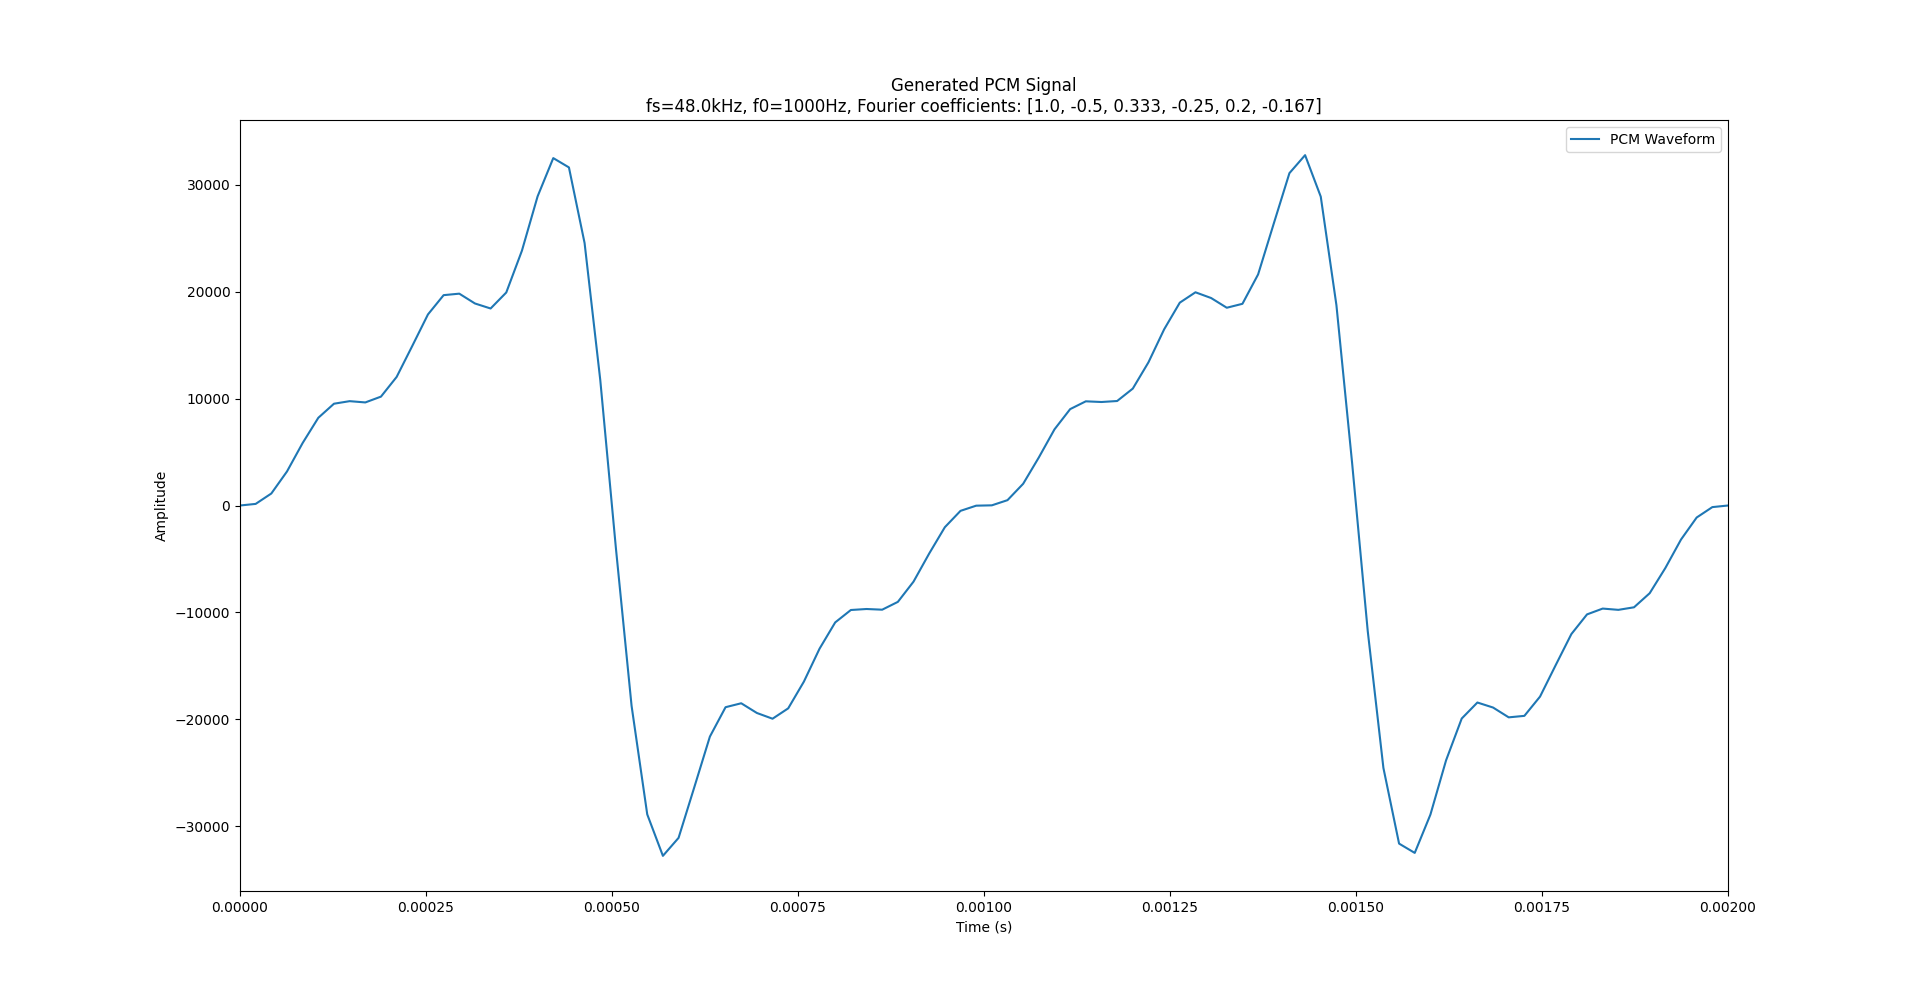
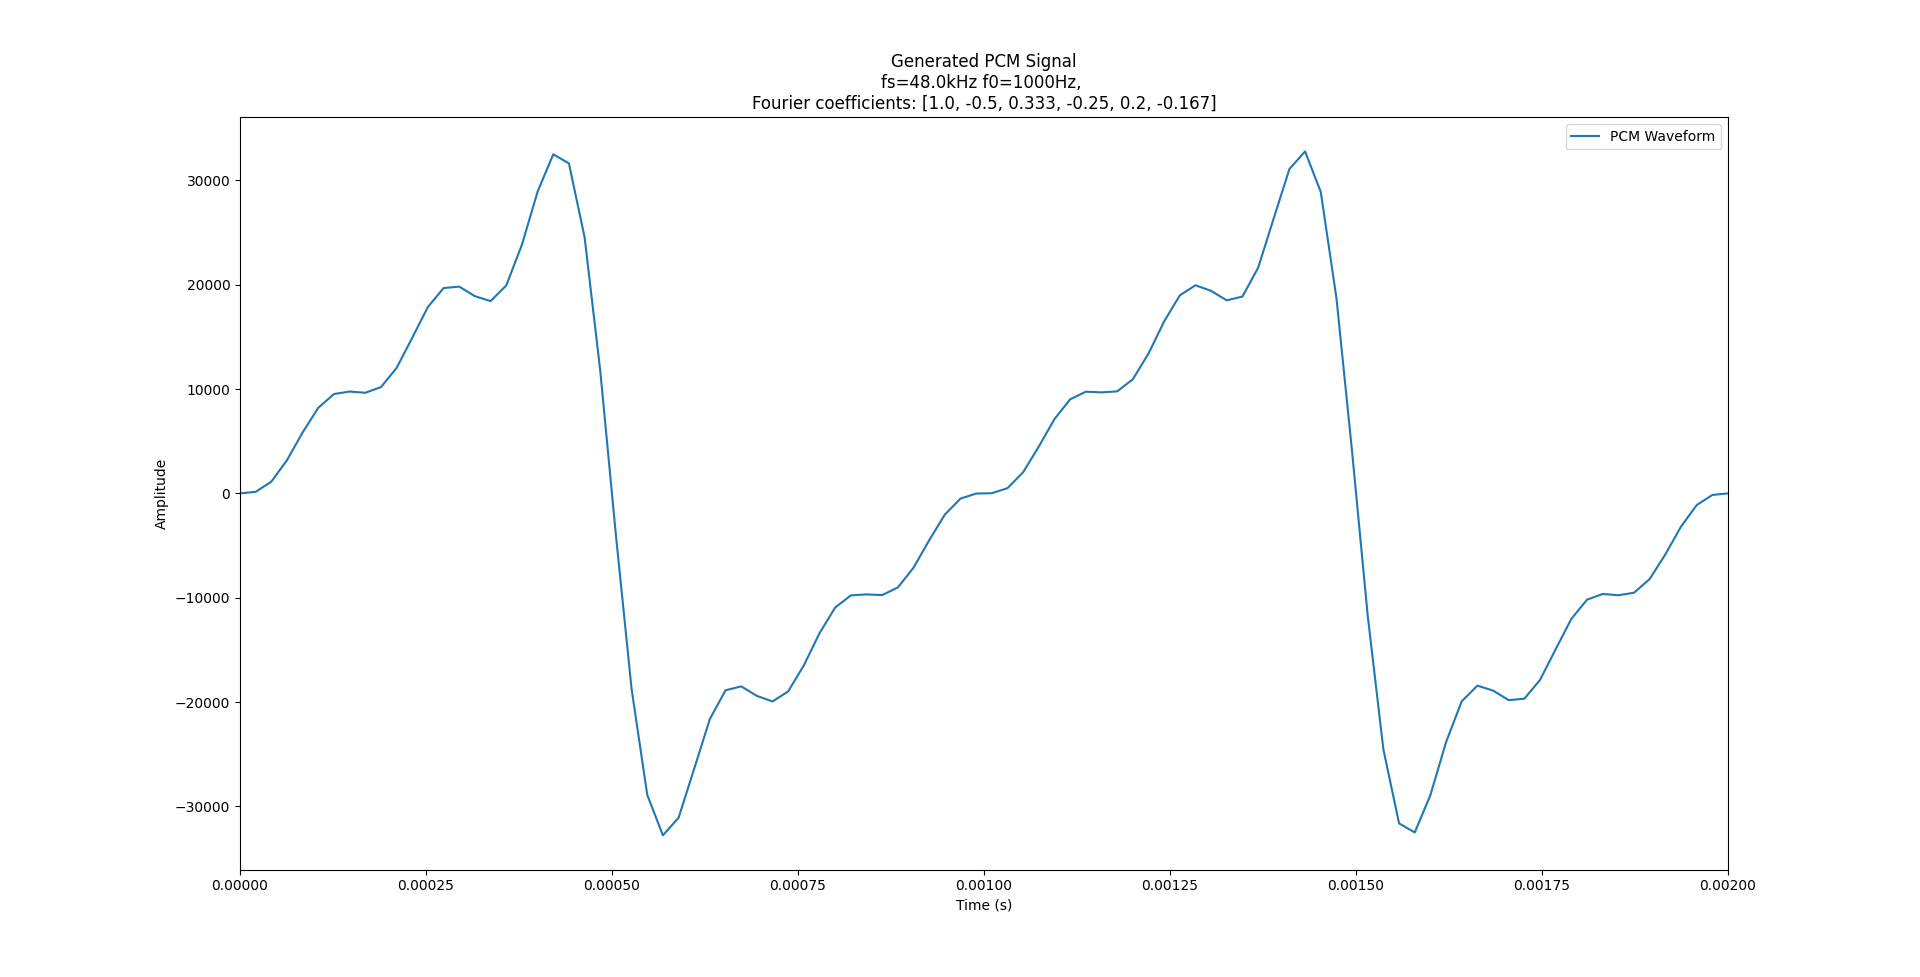
Proofread ToolBox Documentation & did corrections

Changed region(s): [[0.3125, 0.0614, 0.6875, 0.1228], [0.6875, 0.8905, 0.7188, 0.9212], [0.5938, 0.8905, 0.625, 0.9212]]

diff --git a/01_PCM_PDM_Toolbox/pcm_generator.py b/01_PCM_PDM_Toolbox/pcm_generator.py
@@ -9,7 +9,7 @@ def main():
     argument_parser.add_argument('-s', '--sampling', type=int, help="PCM Sampling frequency")
     argument_parser.add_argument('-f0', type=int, help='Fundamental Frequency of the signal')
     argument_parser.add_argument('-t', '--time', type=float, help="Signal Duration")
-    argument_parser.add_argument('-c', '--coeffs', type=float, help="Fourier Coefficients", nargs='+')
+    argument_parser.add_argument('-c', '--coefs', type=float, help="Fourier Coefficients", nargs='+')
 
     args = argument_parser.parse_args()
 
@@ -18,13 +18,13 @@ def main():
     fs = args.sampling if args.sampling else 32000
     f0 = args.f0 if args.f0 else 1000
     T = args.time if args.time else 5.
-    coeffs = args.coeffs if args.coeffs else [1.]
+    coefs = args.coefs if args.coefs else [1.]
     N = int(T * fs)
 
     t = np.linspace(0, T, N)
     x = np.zeros(t.shape)
-    for i in range(len(coeffs)):
-        x += coeffs[i] * np.sin(2 * np.pi * (i + 1) * f0 * t)
+    for i in range(len(coefs)):
+        x += coefs[i] * np.sin(2 * np.pi * (i + 1) * f0 * t)
 
     x = (x / np.max(x)) * 0x7FFF
     x_int = np.array(x, dtype='int16')
@@ -37,8 +37,7 @@ def main():
     print("Wrote {} Byte{} ({} samples) to \"{}\"".format(bytes_wr, "s" if bytes_wr > 1 else "", bytes_wr / 2,
                                                           args.output))
 
-
-    plt.title("Generated PCM Signal\nfs={:.1f}kHz, f0={}Hz, Fourier coefficients: {}".format(fs / 1000, f0, coeffs))
+    plt.title("Generated PCM Signal\nfs={:.1f}kHz f0={}Hz, \nFourier coefficients: {}".format(fs / 1000, f0, coefs))
     # plt.plot(t, x, label='float64')!
 
     plt.plot(t, x_int, label='PCM Waveform')

diff --git a/01_PCM_PDM_Toolbox/wav2plot.py b/01_PCM_PDM_Toolbox/wav2plot.py
@@ -46,7 +46,7 @@ def main():
             "Duration           ": "{:.2f} s".format(metadata[3] / metadata[2]),
             "Compression type   ": metadata[4],
             "Compression name   ": metadata[5],
-            "Size Coherent      ": "Yes" if file_dict["size_ok"] else "No",
+            "Size Consistent    ": "Yes" if file_dict["size_ok"] else "No",
             "Signal Minimum     ": np.min(sig),
             "Signal Maximum     ": np.max(sig),
             "Signal Average     ": "{:.2f}".format(np.average(sig)),

diff --git a/01_PCM_PDM_Toolbox/readme.md b/01_PCM_PDM_Toolbox/readme.md
@@ -1,31 +1,28 @@
-<h1>:warning: Document non relu :warning:</h1>
-
-
 <h1> 01_PCM_PDM_Toolbox </h1>
 
-Ce dossier contien un ensemble de scipt Python pour le traitement des signaux PDM, PCM et WAV. Ces scripts sont developpés pour **Python 3.8.X**
+Ce dossier contient un ensemble de scripts Python pour le traitement des signaux PDM, PCM et WAV. Ces scripts sont développés pour **Python 3.8.X**
 
 
 # Scripts
 | Script | Objectif |
 |:-------|:---------|
-|[pcm_generator](pcm_generator.py)| Générer des signaux PCM à une fréquence f0 donnée à partir des coefficiant de la série de Fourier |
+|[pcm_generator](pcm_generator.py)| Générer des signaux PCM à une fréquence f0 donnée à partir des coefficients de la série de Fourier |
 |[pcm2pdm](pcm2pdm.py)| Convertir des signaux PCM en PDM |
-|[pcm2plot](pcm2plot.py)| Tracer les composantes temporelles et Frequencielles de signaux PCM|
+|[pcm2plot](pcm2plot.py)| Tracer les composantes temporelles et fréquentielles de signaux PCM|
 |[pcm2wav](pcm2wav.py)| Convertir un signal PCM en fichier WAV|
-|[wav2plot](wav2plot.py) | Tracer les composantes temporelles et Frequencielles de fichier WAV
+|[wav2plot](wav2plot.py) | Tracer les composantes temporelles et fréquentielles de fichier WAV
 
 
-# Installation des Modules Python nécessaires
+# Installation des modules Python nécessaires
 ```bash
-# A partir de la racine du dépot
-# Création de l'environnement Python virtuel
+# À partir de la racine du dépôt
+# Création de l’environnement Python virtuel
 virtualenv venv
-# Activation de l'environnement virtuel
+# Activation de l’environnement virtuel
 source venv/bin/activate
 # Installation des modules Python
 pip install -r "requirments.txt"
-# Desactivation de l'environnement virtuel
+# Desactivation de l’environnement virtuel
 deactivate
 ```
 
@@ -46,17 +43,17 @@ six==1.16.0
 
 # PCM Generator
 
-Ce script permet de Générer un Signal PCM Echantionné à une fréquence $`fs`$ avec une fréquence fondamentalle $`f0`$ qui suit la formule suivante:
+Ce script permet de générer un Signal PCM échantillonné à une fréquence $`fs`$ avec une fréquence fondamentale $`f0`$ qui suit la formule suivante :
 
-pour $`n`$ coefficiants stocké dans le tableau $`C`$
+pour $`n`$ coefficients stockés dans le tableau $`C`$
 
 ```math
 x(t) =  \sum_{k=0}^{n-1} C[k] * sin(2* \pi* (k+1) * f0 * t)
 ```
 
-### Message d'aide
+### Message d’aide
 ```
-usage: pcm_generator [-h] [-s SAMPLING] [-f0 F0] [-t TIME] [-c COEFFS [COEFFS ...]] <Output file>
+usage: pcm_generator [-h] [-s SAMPLING] [-f0 F0] [-t TIME] [-c COEFS [COEFS ...]] <Output file>
 
 Python Script to generate PCM waveforms
 
@@ -69,31 +66,31 @@ optional arguments:
                         PCM Sampling frequency
   -f0 F0                Fundamental Frequency of the signal
   -t TIME, --time TIME  Signal Duration
-  -c COEFFS [COEFFS ...], --coeffs COEFFS [COEFFS ...]
+  -c COEFS [COEFS ...], --coefs COEFS [COEFS ...]
                         Fourier Coefficients
 ```
 
-### Exemple d'utilisation
-On veut Générer un signal échantillonné à $`fs=48*10^3 Hz`$ avec une frequence fondamentalle $`f0=10^3 Hz`$ et les coefficiants de Fourier suivant: `[1 -0.5 0.333 -0.25 0.2 -0.167]` pendands 2ms.
-Le script doit générer 2 periode d'un signal en dent de scie
-Pour se faire on execute la commande suivante:
+### Exemple d’utilisation
+On veut générer un signal échantillonné à $`fs=48*10^3 Hz`$ avec une fréquence fondamentale $`f0=10^3 Hz`$ et les coefficients de Fourier suivant : `[1 -0.5 0.333 -0.25 0.2 -0.167]` pendant 2 ms.
+Le script doit générer 2 périodes d’un signal en dent de scie
+Pour se faire, on exécute la commande suivante :
 ```bash
-# A partir de la racine du dépot avec l'environnement virtuel Actif
+# À partir de la racine du dépôt avec l’environnement virtuel actif
 python 01_PCM_PDM_Toolbox/pcm_generator.py "waveform.pcm" -s 48000 -f0 1000 -t 0.002 -c 1 -0.5 0.333 -0.25 0.2 -0.167
 ```
 
-on retrouvera alors dans le dossier racine du dépôt un fichier `waveform.pcm` qui contient nos echantillons PCM
+on retrouvera alors dans le dossier racine du dépôt un fichier `waveform.pcm` qui contient nos échantillons PCM
 
-Le script trace la figure suivante representant les echantillons PCM en fonction du temps:
+Le script trace la figure suivante représentant les échantillons PCM en fonction du temps :
 ![Generated PCM](../00_Documentation/imgs/01_PCM_PDM_Toolbox/generated_pcm_fs48kHz_f01kHz_dent_de_scie_ordre_6.png)
 
 # PCM 2 Plot
 
-Ce script permet de tracer les composantes Temporelles et Fréquencielles de plusieurs signaux PCM
+Ce script permet de tracer les composantes temporelles et fréquentielles de plusieurs signaux PCM
 
-### Message d'aide
+### Message d’aide
 ```
-usage: pcm2plot [-h] [-s SAMPLING] <Input file> [<Input file> ...]
+usage : pcm2plot [-h] [-s SAMPLING] <Input file> [<Input file> ...]
 
 Python script to Plot PCM Files
 
@@ -107,28 +104,28 @@ optional arguments:
 
 ```
 
-### Exemple d'utilisation
-On veut tracer les composantes Temporelles et Fréquencielles du signal que l'on à générer dans l'exemple de [PCM Generator](#pcm_generator) afin de s'assurer que l'on a bien les 6 composante Frequencielles  a 1,2,3,4,5 et 6 kHz
+### Exemple d’utilisation
+On veut tracer les composantes temporelles et Fréquencielles du signal que l’on à générer dans l’exemple de [PCM Generator](#pcm_generator) afin de s’assurer que l’on a bien les 6 composantes Frequencielles  a 1,2,3,4,5 et 6 kHz
 
-On execute la commande suivante:
+On exécute la commande suivante :
 ```bash
-# A partir de la racine du dépot avec l'environnement virtuel Actif
+# À partir de la racine du dépôt avec l’environnement virtuel actif
 python 01_PCM_PDM_Toolbox/pcm2plot.py -s 48000 waveform.pcm
 ```
 
-On obtien alors figure suivante
+On obtient alors figure suivante :
 ![Generated PCM](../00_Documentation/imgs/01_PCM_PDM_Toolbox/time_and_frequency_waveform.png)
 
-Pour mieu distinguer les frequences j'ai regenerer le même signal mais sur 100ms:
+Pour mieux distinguer les fréquences j’ai régénéré le même signal, mais sur 100 ms :
 ![Generated PCM](../00_Documentation/imgs/01_PCM_PDM_Toolbox/time_and_frequency_waveform_100ms.png)
 
 # PCM 2 WAV
 
-Ce script permet de "convertir" les sigaux PCM en fichier son WAV
+Ce script permet de "convertir" les signaux PCM en fichier son WAV
 
-### Message d'aide
+### Message d’aide
 ```
-usage: pcm2wav [-h] [-s SAMPLING] <Input file> <Output file>
+usage : pcm2wav [-h] [-s SAMPLING] <Input file> <Output file>
 
 Python script to convert PCM Files to WAV
 
@@ -144,25 +141,25 @@ optional arguments:
 
 ```
 
-### Exemple d'utilisation
-Si on souhaite convertir le signal PCM generer dasn l'exemple [PCM Generator](#pcm_generator)
+### Exemple d’utilisation
+Si l’on souhaite convertir le signal PCM généré dans l’exemple [PCM Generator](#pcm_generator)
 
-On execute la commande suivante:
+On exécute la commande suivante :
 ```bash
-# A partir de la racine du dépot avec l'environnement virtuel Actif
+# À partir de la racine du dépôt avec l’environnement virtuel actif
 python 01_PCM_PDM_Toolbox/pcm2wav.py -s 48000 waveform.pcm waveform.wav
 ```
-Quand on visualise le fichier dans Audacity on a le signal suivant:
-On obtien alors figure suivante
+Quand on visualise le fichier dans Audacity, on a le signal suivant :
+On obtient alors figure suivante :
 ![WAV Signal](../00_Documentation/imgs/01_PCM_PDM_Toolbox/Audacity_wav.png)
 
 # WAV 2 Plot
 
-Ce script permet de tracer les composantes Temporelles et Fréquencielles de plusieurs fichier son WAV
+Ce script permet de tracer les composantes temporelles et Fréquencielles de plusieurs fichiers au format WAV
 
-### Message d'aide
+### Message d’aide
 ```
-usage: wav2plot [-h] <Input file> [<Input file> ...]
+usage : wav2plot [-h] <Input file> [<Input file> ...]
 
 Python script to Plot WAV Files
 
@@ -175,56 +172,56 @@ optional arguments:
 
 ```
 
-### Exemple d'utilisation
-On veut tracer les composantes Temporelles et Fréquencielles du signal que l'on à générer dans l'exemple de [PCM Generator](#pcm_generator) puis converti en fichier `WAV`dasn l'exemple de [PCM 2 WAV](#pcm_2_wav) afin de s'assurer que l'on a bien les 6 composante Frequencielles à 1,2,3,4,5 et 6 kHz
+### Exemple d’utilisation
+On veut tracer les composantes temporelles et fréquentielles du signal que l’on a généré dans l’exemple de [PCM Generator](#pcm_generator) puis converti en fichier `WAV`dans l’exemple de [PCM 2 WAV](#pcm_2_wav) afin de s’assurer que l’on a bien les 6 composantes fréquentielles à 1,2,3,4,5 et 6 kHz
 
-On execute la commande suivante:
+On exécute la commande suivante :
 ```bash
-# A partir de la racine du dépot avec l'environnement virtuel Actif
+# À partir de la racine du dépôt avec l’environnement virtuel actif
 python 01_PCM_PDM_Toolbox/wav2plot.py waveform.wav
 ```
 
-On obtien alors figure suivante
+On obtient alors figure suivante
 ![WAV Plot](../00_Documentation/imgs/01_PCM_PDM_Toolbox/time_and_frequency_waveform_wav.png)
 
-on obtien la sortie suivante en console:
+on obtient la sortie suivante en console :
 ```
-File: waveform.wav
-	Channels            : 1
-	Sample Width        : 16 bits
-	Sampling Frequency  : 48.0 kHz
-	WAV sample count    : 96
-	Duration            : 0.00 s
-	Compression type    : NONE
-	Compression name    : not compressed
-	Size Coherent       : Yes
-	Signal Minimum      : -32767
-	Signal Maximum      : 32767
-	Signal Average      : 0.00
-	FFT Max Frequency   : 1.02 kHz
-	FFT Max Value       : 80.00 dB
+File: .\waveform.wav
+        Channels            : 1
+        Sample Width        : 16 bits
+        Sampling Frequency  : 48.0 kHz
+        WAV sample count    : 96
+        Duration            : 0.00 s
+        Compression type    : NONE
+        Compression name    : not compressed
+        Size Consistent     : Yes
+        Signal Minimum      : -32767
+        Signal Maximum      : 32767
+        Signal Average      : 0.00
+        FFT Max Frequency   : 1.02 kHz
+        FFT Max Value       : 80.00 dB
 ```
 
 
-Pour mieu distinguer les frequences j'ai regenerer le même signal mais sur 100ms:
+Pour mieux distinguer les fréquences j’ai régénéré le même signal, mais sur 100 ms :
 ![Generated PCM](../00_Documentation/imgs/01_PCM_PDM_Toolbox/time_and_frequency_waveform_100ms_wav.png)
 
-on obtien la sortie suivante en console:
+on obtient la sortie suivante en console :
 ```
-File: waveform.wav
-	Channels            : 1
-	Sample Width        : 16 bits
-	Sampling Frequency  : 48.0 kHz
-	WAV sample count    : 4800
-	Duration            : 0.10 s
-	Compression type    : NONE
-	Compression name    : not compressed
-	Size Coherent       : Yes
-	Signal Minimum      : -32767
-	Signal Maximum      : 32767
-	Signal Average      : 0.00
-	FFT Max Frequency   : 1.00 kHz
-	FFT Max Value       : 80.08 dB
+File: .\waveform.wav
+        Channels            : 1
+        Sample Width        : 16 bits
+        Sampling Frequency  : 48.0 kHz
+        WAV sample count    : 4800
+        Duration            : 0.10 s
+        Compression type    : NONE
+        Compression name    : not compressed
+        Size Consistent     : Yes
+        Signal Minimum      : -32767
+        Signal Maximum      : 32767
+        Signal Average      : 0.00
+        FFT Max Frequency   : 1.00 kHz
+        FFT Max Value       : 80.08 dB
 
 ```
 
@@ -232,11 +229,11 @@ File: waveform.wav
 
 Ce script permet de convertir un signal PCM en signal PDM
 
-(:warning: La frequence d'echantillonage du signal PDM sera la même que celle du signal PCM :warning:)
+(:warning: la fréquence d’échantillonnage du signal PDM sera la même que celle du signal PCM :warning:)
 
-### Message d'aide
+### Message d’aide
 ```
-usage: pcm2pdm [-h] <Input file> <Output file>
+usage : pcm2pdm [-h] <Input file> <Output file>
 
 Python script to convert PCM to PDM
 
@@ -248,17 +245,17 @@ optional arguments:
   -h, --help     show this help message and exit
 ```
 
-### Exemple d'utilisation
-On veut converir en PDM le signal que l'on à générer dans l'exemple de [PCM Generator](#pcm_generator)
+### Exemple d’utilisation
+On veut convertir en PDM le signal que l’on a généré dans l’exemple de [PCM Generator](#pcm_generator)
 
-On execute la commande suivante:
+On exécute la commande suivante :
 ```bash
-# A partir de la racine du dépot avec l'environnement virtuel Actif
+# À partir de la racine du dépôt avec l’environnement virtuel actif
 python 01_PCM_PDM_Toolbox/pcm2pdm.py waveform.pcm waveform.pdm
 ```
 
-On obtien alors figure suivante
+On obtient alors figure suivante
 ![PCM to PDM](../00_Documentation/imgs/01_PCM_PDM_Toolbox/pcm_pdm_converted.png)
 
-Pour permettre un traitement par le Pramme C de filtrage j'ai regéneré le signale avec une frequece d'echantionnage $`fs=3.072MHz = 48kHz*64`$:
+Pour permettre un traitement par le Programme C de filtrage j’ai régénéré le signale avec une fréquence d’échantillonnage $`fs=3.072MHz = 48 kHz*64`$ :
 ![PCM to PDM](../00_Documentation/imgs/01_PCM_PDM_Toolbox/pcm_pdm_converted_3072kHz.png)
